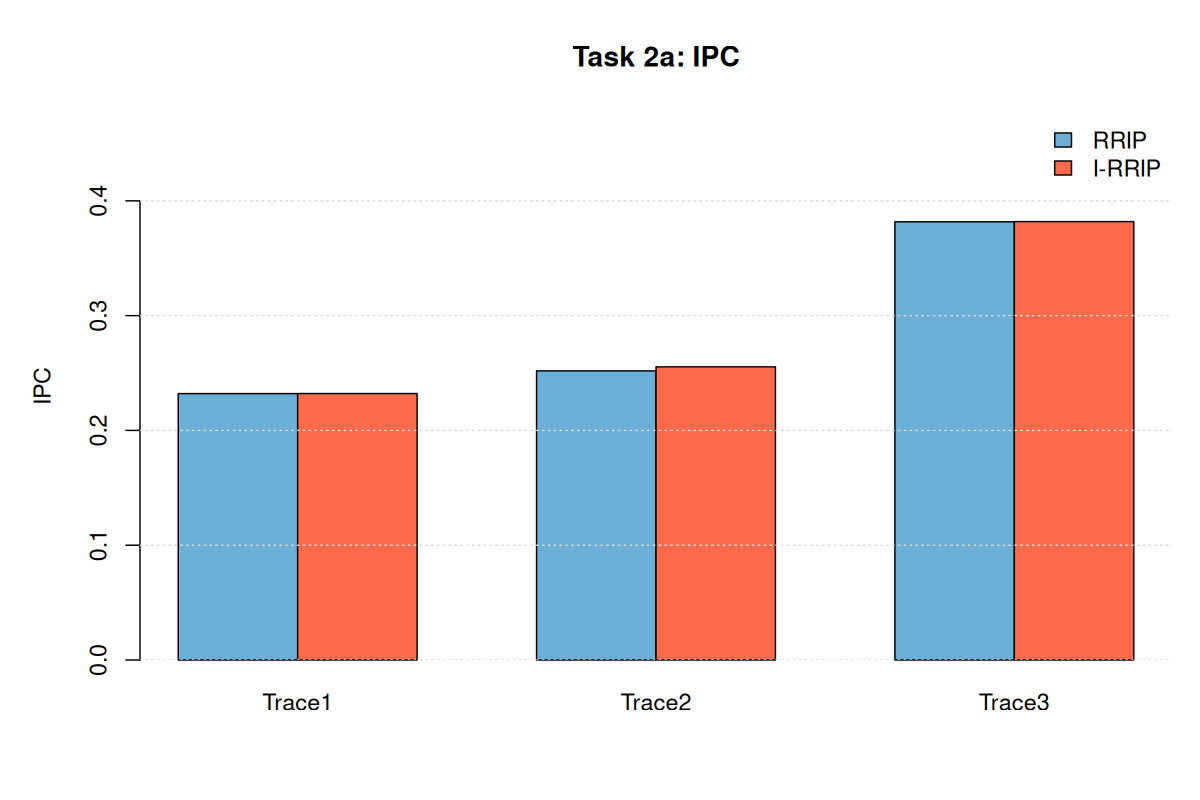
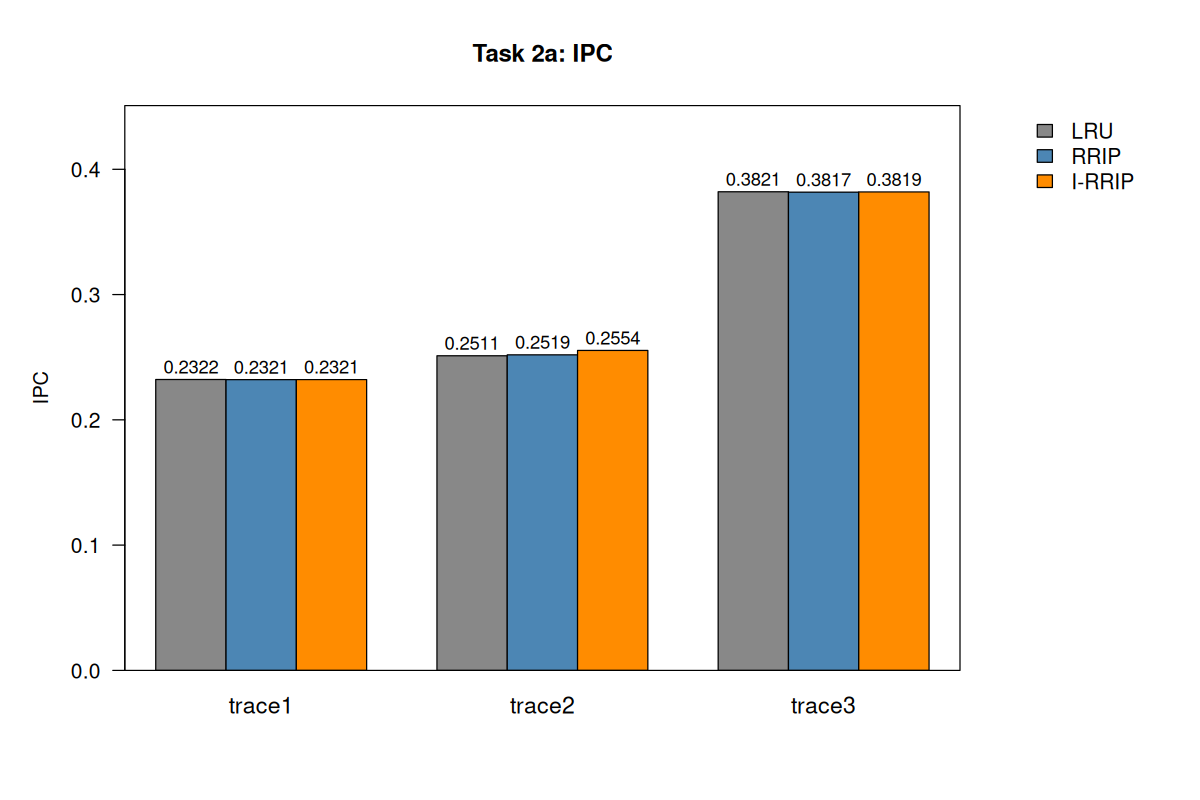
Cross checked data and added LRU bars to plots

diff --git a/docs/2a/task2a-data.md b/docs/2a/task2a-data.md
@@ -1,12 +1,17 @@
-# Task 2a RRIP vs I-RRIP data
+# Task 2a LRU vs RRIP vs I-RRIP data
 
-Baseline: standard RRIP. Candidate: current I-RRIP. Values are from the 25M warmup / 25M ROI simulations.
+Speedup is IPC divided by the LRU IPC for the same trace. Values use the existing 25M warmup / 25M ROI logs. The LRU rows are from the stored `default-baseline` logs; RRIP and I-RRIP rows are from the 2026-10-14 reruns. The RRIP and I-RRIP reruns match their original stored logs exactly; LRU was not rerun in that check.
 
-| Trace | Policy | IPC | Speedup vs RRIP | L2C Load MPKI | L2 Instruction Load MPKI | L2 Data Load MPKI | L2 Total MPKI |
+| Trace | Policy | IPC | Speedup vs LRU | L2C Load MPKI | L2 Instruction Load MPKI | L2 Data Load MPKI | L2 Total MPKI |
 |---|---|---:|---:|---:|---:|---:|---:|
-| Trace1 | RRIP | 0.232075 | 0.0000% | 17.61550 | 10.53600 | 7.07956 | 23.82430 |
-| Trace1 | I-RRIP | 0.232122 | 0.0203% | 17.56660 | 10.05370 | 7.51292 | 24.56720 |
-| Trace2 | RRIP | 0.251900 | 0.0000% | 26.29570 | 18.33290 | 7.96284 | 32.18180 |
-| Trace2 | I-RRIP | 0.255396 | 1.3879% | 23.94020 | 15.09400 | 8.84616 | 31.17760 |
-| Trace3 | RRIP | 0.381743 | 0.0000% | 4.04324 | 1.19624 | 2.84700 | 6.34944 |
-| Trace3 | I-RRIP | 0.381920 | 0.0464% | 3.95396 | 1.07696 | 2.87700 | 6.36412 |
+| trace1 | LRU | 0.232204 | 1.0000 | 17.73020 | 10.38430 | 7.34592 | 23.92560 |
+| trace1 | RRIP | 0.232075 | 0.9994 | 17.61550 | 10.53600 | 7.07956 | 23.82430 |
+| trace1 | I-RRIP | 0.232122 | 0.9996 | 17.56660 | 10.05370 | 7.51292 | 24.56720 |
+| trace2 | LRU | 0.251130 | 1.0000 | 27.92340 | 19.39080 | 8.53252 | 33.94840 |
+| trace2 | RRIP | 0.251900 | 1.0031 | 26.29570 | 18.33290 | 7.96284 | 32.18180 |
+| trace2 | I-RRIP | 0.255396 | 1.0170 | 23.94020 | 15.09400 | 8.84616 | 31.17760 |
+| trace3 | LRU | 0.382061 | 1.0000 | 3.95904 | 1.12584 | 2.83320 | 6.11848 |
+| trace3 | RRIP | 0.381743 | 0.9992 | 4.04324 | 1.19624 | 2.84700 | 6.34944 |
+| trace3 | I-RRIP | 0.381920 | 0.9996 | 3.95396 | 1.07696 | 2.87700 | 6.36412 |
+
+
